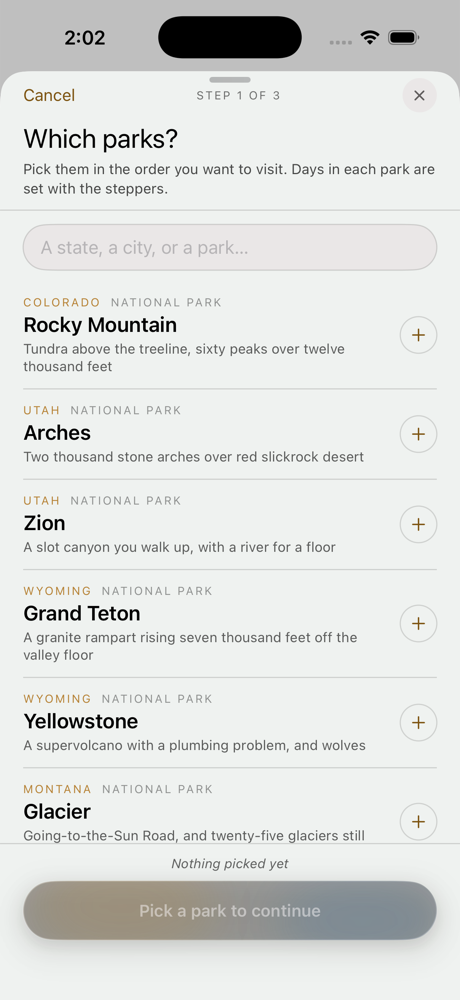
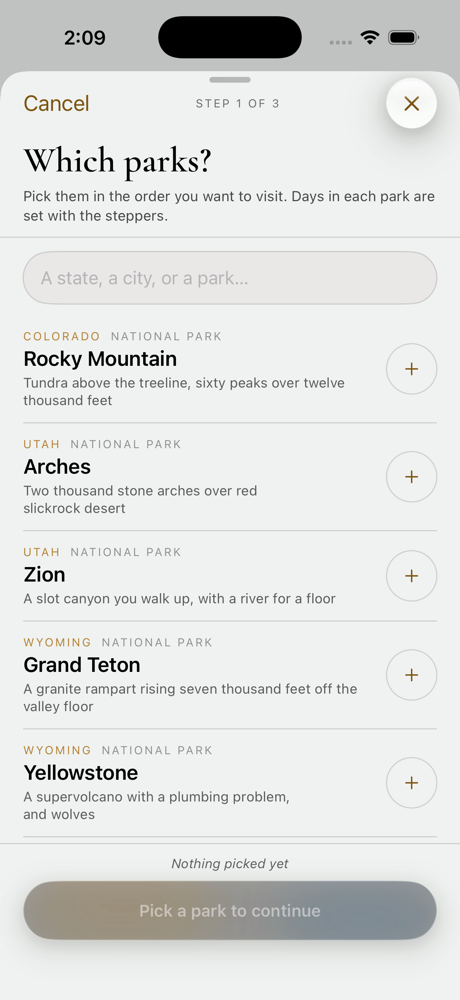
style: navigation controls stop reading as borrowed chrome (v2.18.0)
The back control on a pushed screen was 15pt, its title 16pt UI text, and
the builder's Cancel 14.5 — all of it sitting under a masthead set in
44pt serif. It read as system chrome from another app pasted onto the top
of this one.

Back and Cancel are 19pt with a matching chevron and a 44-point target.
The pushed title is the display serif at 24, shrinking rather than
truncating, because a trip's name is as long as somebody made it and "The
Colorado Platea…" is not a title. The trip's own headline on its screen
goes from 27pt UI to 34pt serif, and the builder's step heading from 27 to
32 — those are titles, not labels. The builder's close disc is the same
`GlassDisc` the home screen and the search sheet use, at 44 rather than 30.

Sweeping for the same fault found eleven controls between 22 and 40
points: the saved-park remove, the terrain chips, Discover's save, the
park screen's Save and Offline Pack, Profile's pack buttons and tint
reset, the trip delete disc, and the builder's day steppers and pick
chips. All are 44 or more now, which is both the platform's minimum and
one of the items HP_changes lists under UI.

Also adds `-wpDemoTrip`, debug-only: with the seed trip gone from
production state there was no trip to photograph the trip screens with.

diff --git a/Waypost/Features/Trips/NewTripSheet.swift b/Waypost/Features/Trips/NewTripSheet.swift
@@ -47,8 +47,9 @@ struct NewTripSheet: View {
                     }
                 } label: {
                     Text(builder.step > 1 ? "Back" : "Cancel")
-                        .font(WP.body(14.5))
+                        .font(WP.body(19))
                         .foregroundStyle(WP.accent700)
+                        .frame(minHeight: 44, alignment: .center)
                 }
                 .buttonStyle(PressStyle(scale: 0.94))
 
@@ -57,17 +58,13 @@ struct NewTripSheet: View {
                     .font(WP.body(10)).tracking(1.4).opacity(0.55)
                 Spacer(minLength: 0)
 
-                Button { dismiss() } label: {
-                    Image(systemName: "xmark")
-                        .font(.system(size: 11, weight: .semibold))
-                        .foregroundStyle(WP.neutral700)
-                        .frame(width: 30, height: 30)
-                        .background(WP.neutral200, in: Circle())
-                }
-                .buttonStyle(PressStyle(scale: 0.9))
+                // The same disc the home screen and the search sheet use, at the size
+                // every other round control in the app is.
+                GlassDisc(icon: "xmark", size: 44) { dismiss() }
+                    .accessibilityLabel("Cancel")
             }
 
-            Text(builder.heading).font(WP.heading(27)).padding(.top, 9)
+            Text(builder.heading).font(WP.display(32)).padding(.top, 9)
             Text(builder.subtitle).font(WP.body(12.5)).lineSpacing(2).opacity(0.7).padding(.top, 5)
         }
         .padding(.horizontal, WP.gutter)
@@ -129,7 +126,7 @@ struct NewTripSheet: View {
                     .autocorrectionDisabled()
                     .font(WP.body(16))
                     .padding(.horizontal, 15)
-                    .frame(minHeight: 40)
+                    .frame(minHeight: 46)
                     .background(WP.neutral200, in: Capsule())
                     .overlay(Capsule().stroke(WP.divider, lineWidth: 1))
 
@@ -187,13 +184,13 @@ struct NewTripSheet: View {
                                         Text("\(index + 1)")
                                             .font(WP.headingUI(14))
                                             .foregroundStyle(.white)
-                                            .frame(width: 32, height: 32)
+                                            .frame(width: 44, height: 44)
                                             .background(WP.accent, in: Circle())
                                     } else {
                                         Image(systemName: "plus")
                                             .font(.system(size: 14))
                                             .foregroundStyle(WP.accent700)
-                                            .frame(width: 32, height: 32)
+                                            .frame(width: 44, height: 44)
                                             .overlay(Circle().stroke(WP.divider, lineWidth: 1))
                                     }
                                 }

diff --git a/Waypost/Features/Park/ParkScreen.swift b/Waypost/Features/Park/ParkScreen.swift
@@ -111,11 +111,12 @@ struct ParkScreen: View {
         Button { app.pop() } label: {
             HStack(spacing: 3) {
                 Image(systemName: "chevron.left")
-                    .font(.system(size: 15, weight: .semibold))
-                Text("Back").font(WP.body(15))
+                    .font(.system(size: 18, weight: .semibold))
+                Text("Back").font(WP.body(18))
             }
-            .padding(.vertical, 9)
-            .padding(.horizontal, 15)
+            .padding(.vertical, 11)
+            .padding(.horizontal, 17)
+            .frame(minHeight: 44)
             .glassControl()
         }
         .buttonStyle(PressStyle(scale: 0.94))
@@ -129,7 +130,7 @@ struct ParkScreen: View {
                 Button { app.toggleSaved(park.code) } label: {
                     Text(isSaved ? "Saved" : "Save this park")
                         .font(WP.headingUI(14))
-                        .frame(maxWidth: .infinity, minHeight: 40)
+                        .frame(maxWidth: .infinity, minHeight: 46)
                         .glassControl()
                 }
                 .buttonStyle(PressStyle(scale: 0.98))
@@ -139,7 +140,7 @@ struct ParkScreen: View {
                          : packState == .busy ? "Downloading \(Int((app.packProgress[park.code] ?? 0) * 100))%"
                          : "Offline pack · \(park.pack)")
                         .font(WP.headingUI(14))
-                        .frame(maxWidth: .infinity, minHeight: 40)
+                        .frame(maxWidth: .infinity, minHeight: 46)
                         .glassControl()
                 }
                 .buttonStyle(PressStyle(scale: 0.98))

diff --git a/Waypost/App/WaypostApp.swift b/Waypost/App/WaypostApp.swift
@@ -148,22 +148,29 @@ struct PushHeader: View {
 
     var body: some View {
         HStack(spacing: 8) {
+            // 15pt back, 16pt title: both read as system chrome borrowed from another
+            // app rather than as part of a screen whose masthead is 44pt serif.
             Button(action: onBack) {
-                HStack(spacing: 3) {
+                HStack(spacing: 4) {
                     Image(systemName: "chevron.left")
-                        .font(.system(size: 15, weight: .semibold))
-                    Text(backLabel).font(WP.body(15))
+                        .font(.system(size: 19, weight: .semibold))
+                    Text(backLabel).font(WP.body(19))
                 }
                 .foregroundStyle(WP.accent700)
-                .padding(.vertical, 6)
+                .padding(.vertical, 8)
                 .padding(.horizontal, 6)
+                // 44 points, as every control on the screen should be.
+                .frame(minHeight: 44, alignment: .center)
             }
             .buttonStyle(PressStyle(scale: 0.94))
 
             Spacer(minLength: 0)
             Text(title)
-                .font(WP.headingUI(16))
+                .font(WP.display(24))
                 .lineLimit(1)
+                // A trip's name is as long as somebody made it; shrinking reads better
+                // than "The Colorado Platea…".
+                .minimumScaleFactor(0.65)
             Spacer(minLength: 0)
 
             Color.clear.frame(width: 64, height: 1)

diff --git a/Waypost/State/AppState.swift b/Waypost/State/AppState.swift
@@ -275,7 +275,8 @@ final class AppState {
                 || value("wpSearch") != nil || value("wpTrip") != nil
                 || value("wpBuilder") != nil || value("wpStateParks") != nil
                 || value("wpEmpty") != nil || value("wpSheet") != nil
-                || value("wpFind") != nil || value("wpTint") != nil else { return }
+                || value("wpFind") != nil || value("wpTint") != nil
+                || value("wpDemoTrip") != nil else { return }
 
         // Applied after the scene has settled. SwiftUI restores the tab view's own
         // selection on launch and writes it back through the binding, and `go` clears
@@ -292,6 +293,11 @@ final class AppState {
                     self.openPark(wantedPark, segment: segment)
                     try? await Task.sleep(for: .milliseconds(500))
                 }
+            }
+            // A trip to look at. Debug only, like everything in this function — the
+            // sample itinerary stopped being production state in v2.15.0.
+            if value("wpDemoTrip") != nil, !self.myTrips.contains(where: { $0.id == "seed" }) {
+                self.myTrips.append(SavedTrip.seed(dayNumber: self.day))
             }
             if let id = value("wpTrip") {
                 self.tab = .trips

diff --git a/Waypost/Features/Discover/DiscoverScreen.swift b/Waypost/Features/Discover/DiscoverScreen.swift
@@ -117,7 +117,7 @@ struct DiscoverScreen: View {
                                 Text(chip.label)
                                     .font(WP.body(12.5))
                                     .padding(.horizontal, 15)
-                                    .frame(minHeight: 34)
+                                    .frame(minHeight: 44)
                                     .modifier(SelectedControl(active: active))
                             }
                             .buttonStyle(PressStyle(scale: 0.96))
@@ -255,7 +255,7 @@ struct DiscoverCard: View {
                     Text(isSaved ? "Saved" : "Save")
                         .font(WP.headingUI(13))
                         .padding(.horizontal, 16)
-                        .frame(minHeight: 36)
+                        .frame(minHeight: 44)
                         .glassControl(shadow: false)
                 }
                 .buttonStyle(PressStyle(scale: 0.96))

diff --git a/Waypost/Features/Profile/ProfileScreen.swift b/Waypost/Features/Profile/ProfileScreen.swift
@@ -176,7 +176,7 @@ struct ProfileScreen: View {
                      : "Get")
                     .font(WP.headingUI(12.5))
                     .padding(.horizontal, 13)
-                    .frame(minHeight: 32)
+                    .frame(minHeight: 44)
                     .glassControl(shadow: false)
             }
             .buttonStyle(PressStyle(scale: 0.95))
@@ -249,7 +249,7 @@ struct PageTintRow: View {
                         Text("Reset")
                             .font(WP.headingUI(12.5))
                             .padding(.horizontal, 13)
-                            .frame(minHeight: 32)
+                            .frame(minHeight: 44)
                             .glassControl(shadow: false)
                     }
                     .buttonStyle(PressStyle(scale: 0.95))

diff --git a/Waypost/Features/Saved/SavedScreen.swift b/Waypost/Features/Saved/SavedScreen.swift
@@ -69,7 +69,7 @@ struct SavedParksList: View {
                             Button { app.toggleSaved(code) } label: {
                                 Image(systemName: "xmark")
                                     .font(.system(size: 11, weight: .semibold))
-                                    .frame(width: 32, height: 32)
+                                    .frame(width: 44, height: 44)
                                     .glassControl(shadow: false)
                             }
                             .buttonStyle(PressStyle(scale: 0.9))

diff --git a/Waypost/Features/Trips/TripDetailScreen.swift b/Waypost/Features/Trips/TripDetailScreen.swift
@@ -18,7 +18,7 @@ struct TripDetailScreen: View {
             ScrollView(.vertical) {
                 VStack(alignment: .leading, spacing: 0) {
                     Text(trip.tag).kickerStyle()
-                    Text(trip.title).font(WP.heading(27)).padding(.top, 7)
+                    Text(trip.title).font(WP.display(34)).padding(.top, 7)
                         .multilineTextAlignment(.leading)
                     Text(trip.route).font(WP.bodyItalic(12.5)).opacity(0.65).padding(.top, 5)
 

diff --git a/Waypost/Features/Trips/TripsScreen.swift b/Waypost/Features/Trips/TripsScreen.swift
@@ -192,7 +192,7 @@ struct TripCard: View {
             Image(systemName: "trash")
                 .font(.system(size: 13, weight: .regular))
                 .foregroundStyle(WP.onInk)
-                .frame(width: 34, height: 34)
+                .frame(width: 44, height: 44)
                 .background(.white.opacity(0.12), in: Circle())
                 .overlay(Circle().stroke(.white.opacity(0.24), lineWidth: 0.5))
         }

diff --git a/HP_changes.md b/HP_changes.md
@@ -488,6 +488,7 @@ Everything below is untouched. Listing it so the gap is visible rather than impl
 | Flow 1 · consent screen before the system prompt; manual city origin | **Not started** — claude |
 | Flow 1 · `LocationService` single-flight actor, concurrent callers, exactly-once continuation | **Not started** — the continuation is still a single stored optional. — claude |
 | Flow 2 · per-source state, bounded deadlines, LRU/TTL cache, stable identity dedup | **Partly, by accident** — sources already publish independently and Overpass has host fallback, but the 90-second budgets, the clear-at-24 cache and name-based dedup are as described. — claude |
+| UI · every target at least 44×44 | **Done** | Eleven controls were between 22 and 40 points: the saved-park remove, the terrain chips, Discover's save, the park's Save and Offline Pack, Profile's pack buttons and tint reset, the trip delete disc, the builder's day steppers and pick chips. All 44 or more. — claude |
 | Flow 3 · `LoadState` + Retry per park segment; units wired to weather; 44pt targets | **Partly** — Stay and Plans now carry live sourced records with distinct not-covered/not-bookable/failed states; `ParkFacts` carries loaded/not-covered/failed and distinguishes "NPS does not cover this park" from "the request failed"; weather, units and target sizes are unchanged. — claude |
 | Flow 4 · select any park from the shared directory | **Done** | `TripBuilder.results` read `library.orderedParks` alone, so a trip could only be built from the curated eight — a park found on Discover could be opened and saved but not planned around. It now merges the sixty-two on the phone, the eight with day plans, and whatever the live directory finds, with the same source line Discover carries. "moab" gives five parks including Dead Horse Point; "texas" gives thirty-eight. — claude |
 | Flow 4 · real `Date` picker, `TripComposer`, UUID trip IDs, no `hashValue` | **Not started** — claude |
